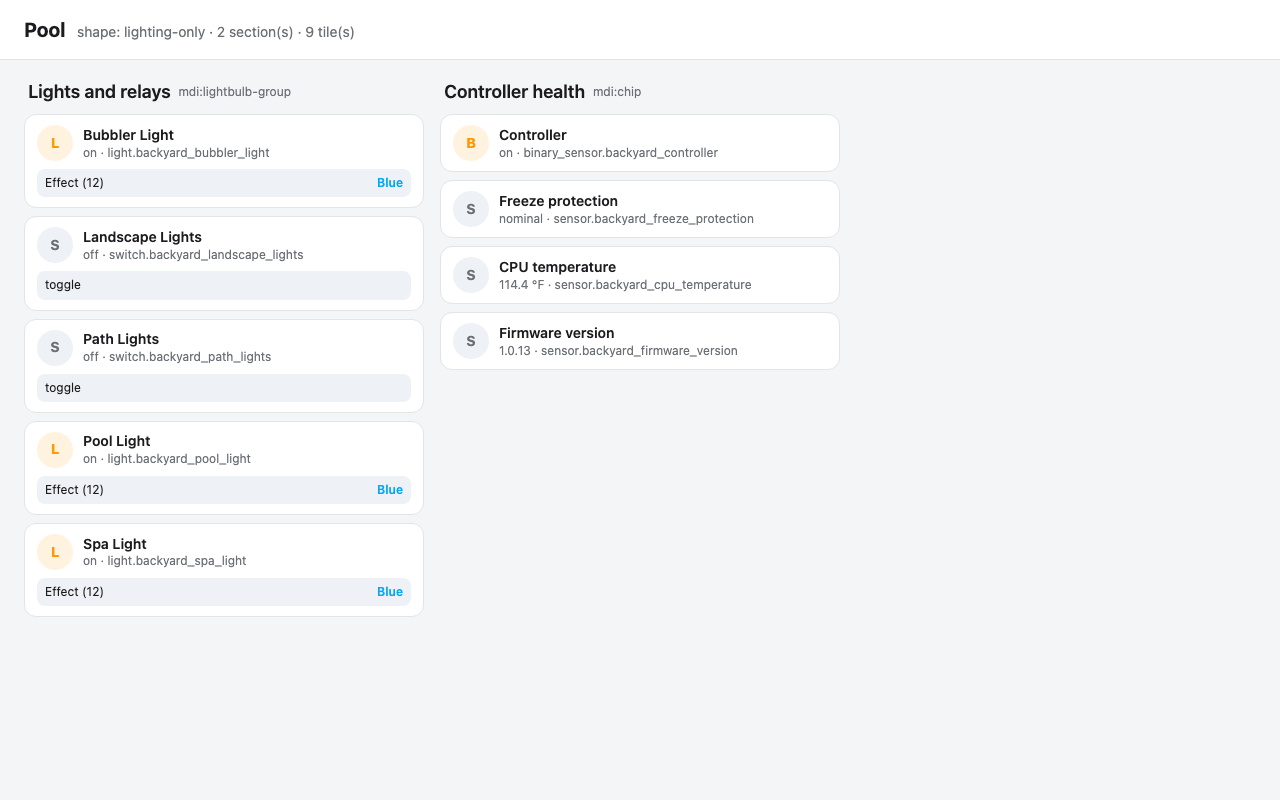
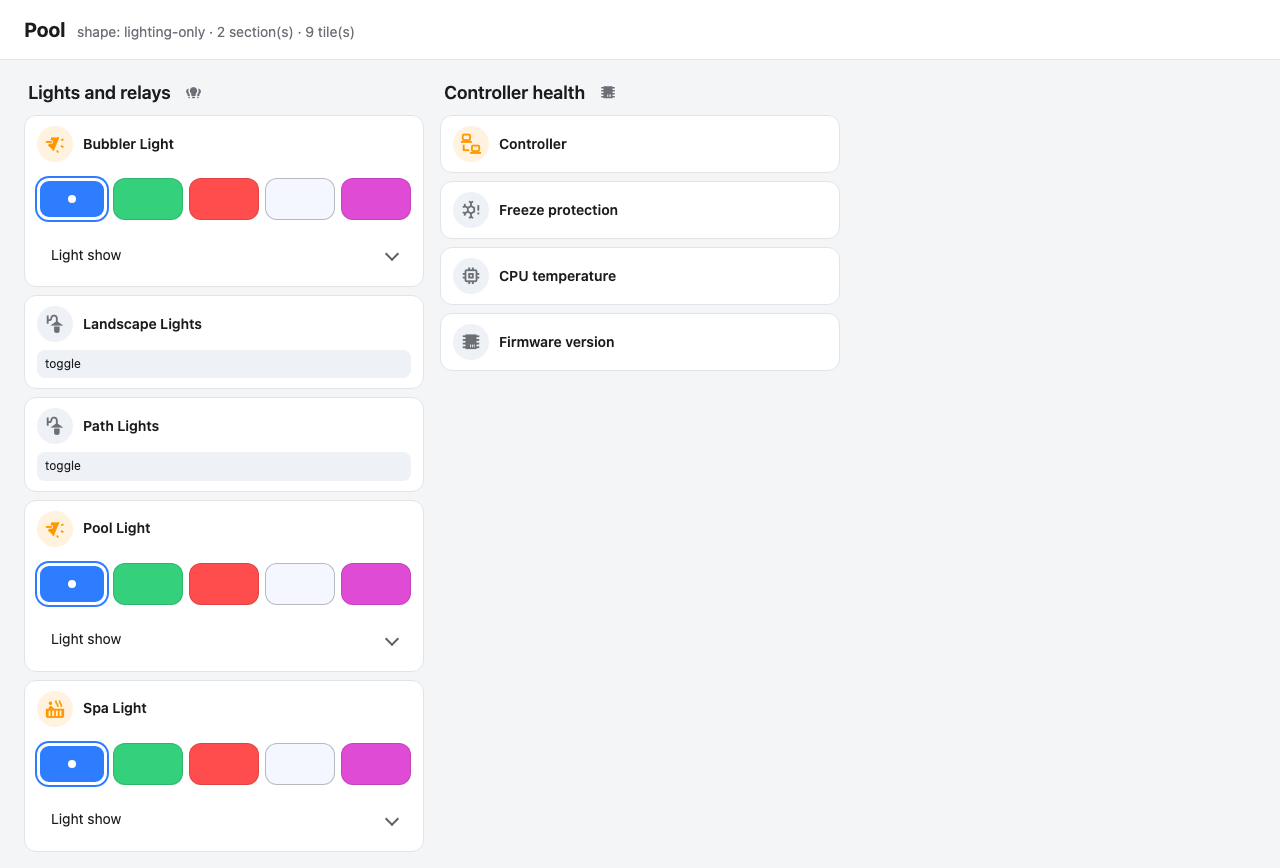
Harness: no status line under the tile title
The render harness printed "state · entity_id" under every tile name; the tile
card shows no such line and the owner does not want it in the previews. Name
only now; the icon colour and the features carry the state. Dashboard images
re-rendered.

diff --git a/tests/frontend/harness.html b/tests/frontend/harness.html
@@ -173,12 +173,9 @@
     ic.title = iconName;
     row.append(ic);
     const label = el("div");
-    const unit = st.attributes?.unit_of_measurement ? ` ${st.attributes.unit_of_measurement}` : "";
-    label.append(
-      // Like the tile card: the configured name, else the full friendly name.
-      el("div", "name", card.name ?? st.attributes?.friendly_name ?? card.entity),
-      el("div", "state", `${st.state}${unit} · ${card.entity}`)
-    );
+    // Like the tile card: the configured name, else the full friendly name.
+    // No status line under it: the icon colour and the features carry the state.
+    label.append(el("div", "name", card.name ?? st.attributes?.friendly_name ?? card.entity));
     row.append(label);
     t.append(row);
     if (card.features?.length) {
